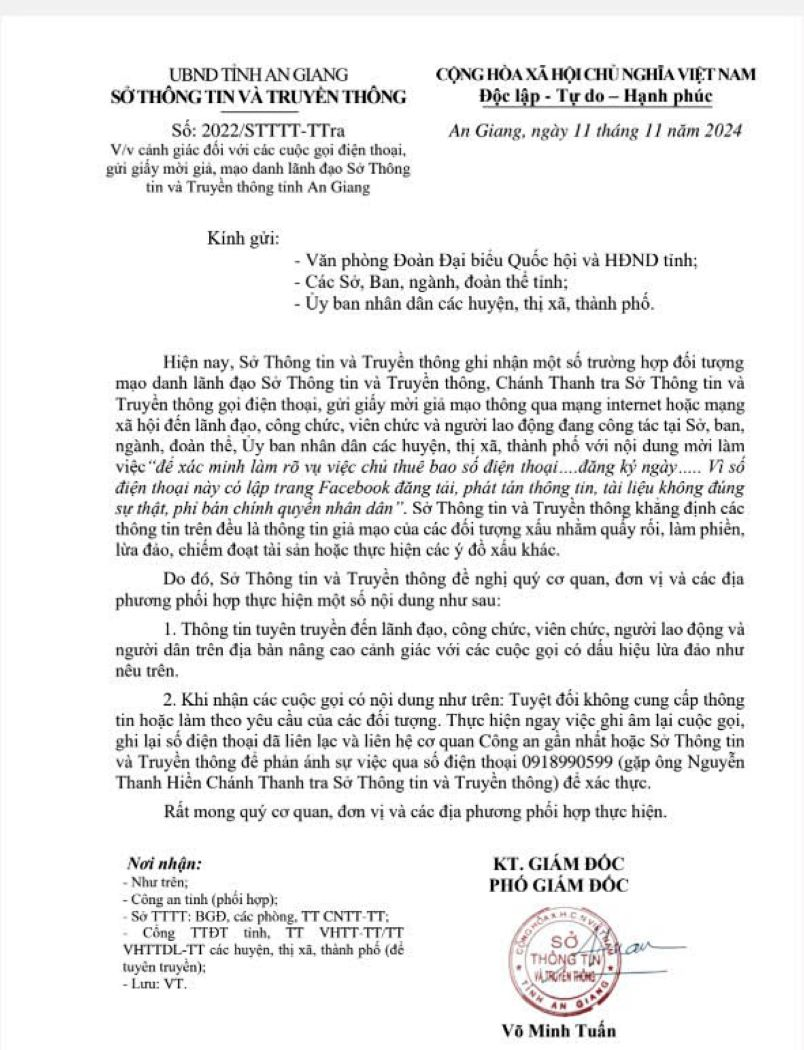
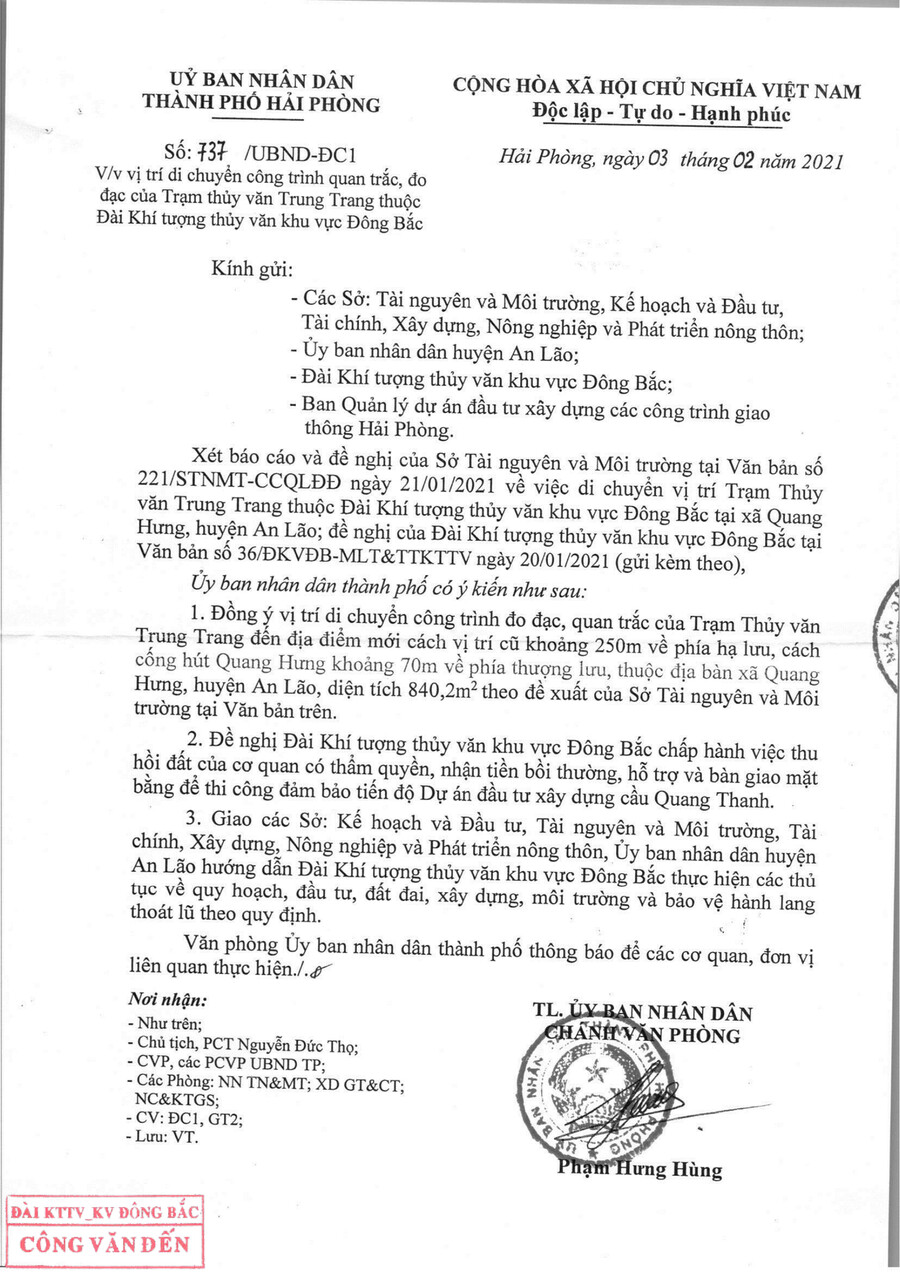
feat: parallel parsing

diff --git a/crawler_services/pipeline/parsing/parser.py b/crawler_services/pipeline/parsing/parser.py
@@ -1,38 +1,101 @@
-from llama_cloud import LlamaCloud
+from llama_cloud import LlamaCloud, AsyncLlamaCloud
 from dotenv import load_dotenv
 import time
+
+import asyncio
 
 load_dotenv()
 client = LlamaCloud()
 
 class FileParser:
+    MAX_WORKERS = 5
+
     @staticmethod
-    def toMd(input_path: str, output_path: str, tier: str = "cost_effective"):
+    async def _parse_single_file_async(client: AsyncLlamaCloud, input_path: str, output_path: str, tier: str):
         """
-            Parse a file with LLama-Parser and save the result as Markdown.
+        Parse a file with LLama-Parser and save the result as Markdown.
 
-            Args:
-                input_path: path to pdf/images/docs/excel/ppt/... files
-                output_path: path to save the markdown file
-                tier: model's tier option ("fast" < "cost_effective" < "agentic" < "agentic_plus")
+        Args:
+            client
+            input_path: path to pdf/images/docs/excel/ppt/... files
+            output_path: path to save the markdown file
+            tier: model's tier option ("fast" < "cost_effective" < "agentic" < "agentic_plus")
 
-            Returns:
-                None
+        Returns:
+            None
         """
-        file = client.files.create(file=input_path, purpose='parse')
-        result = client.parsing.parse(
+        file = await client.files.create(file=input_path, purpose='parse')
+        result = await client.parsing.parse(
             file_id=file.id,
             tier=tier,
             version="latest",
             expand=["markdown"],
         )
 
+        if not result or result.markdown is None:
+            print("Fail when parsing file:", input_path)
+            return
+
         full_markdown = "\n\n---\n\n".join([page.markdown for page in result.markdown.pages])
         with open(output_path, "w", encoding="utf-8") as f:
             f.write(full_markdown)
 
+    @staticmethod
+    def toMd(input_path: str, output_path: str, tier: str = "cost_effective"):
+        """
+        Parse a single file with LlamaParse and save the result as markdown
+
+        Args:
+            input_path: path to the input file
+            output_path: path to save the markdown result file
+            tier: model's tier option ("fast" < "cost_effective" < "agentic" < "agentic_plus")
+
+        Returns:
+            None
+        """
+        async def single_task():
+            client = AsyncLlamaCloud()
+            await FileParser._parse_single_file_async(client, input_path, output_path, tier)
+
+        asyncio.run(single_task())
+
+    @staticmethod
+    async def _parse_with_semaphore(client: AsyncLlamaCloud, input_path: str, output_path: str, tier: str, semaphore: asyncio.Semaphore):
+        async with semaphore:
+            await FileParser._parse_single_file_async(client, input_path, output_path, tier)
+
+    @staticmethod
+    def toMdBatch(file_pairs: list[tuple[str, str]], tier: str = "cost_effective"):
+        """
+        Parse multiple files parallelly with LLama-Parser and save the results as Markdown.
+
+        Args:
+            file_pairs: list of (input_path, output_path)
+            tier: model's tier option ("fast" < "cost_effective" < "agentic" < "agentic_plus")
+
+        Returns:
+            None
+        """
+        async def parallel_tasks():
+            client = AsyncLlamaCloud()
+            semaphore = asyncio.Semaphore(FileParser.MAX_WORKERS)
+            tasks = [
+                FileParser._parse_with_semaphore(client, in_path, out_path, tier, semaphore)
+                for in_path, out_path in file_pairs
+            ]
+            await asyncio.gather(*tasks)
+        asyncio.run(parallel_tasks())
+
 # Test code ----------
 if __name__ == "__main__":
     start = time.time()
-    FileParser.toMd('test_files/tkb.pdf', 'test_files/tkb.md')
+
+    # FileParser.toMd('test_files/congvan.jpg', 'test_files/congvan.md')
+    FileParser.toMdBatch(
+        [
+            ('test_files/congvan.jpg', 'test_files/congvan.md'),
+            ('test_files/data_mining.pdf', 'test_files/data_mining.md'),
+            ('test_files/excel.xlsx', 'test_files/excel.md')
+        ]
+    )
     print("Running time:", time.time() - start)
